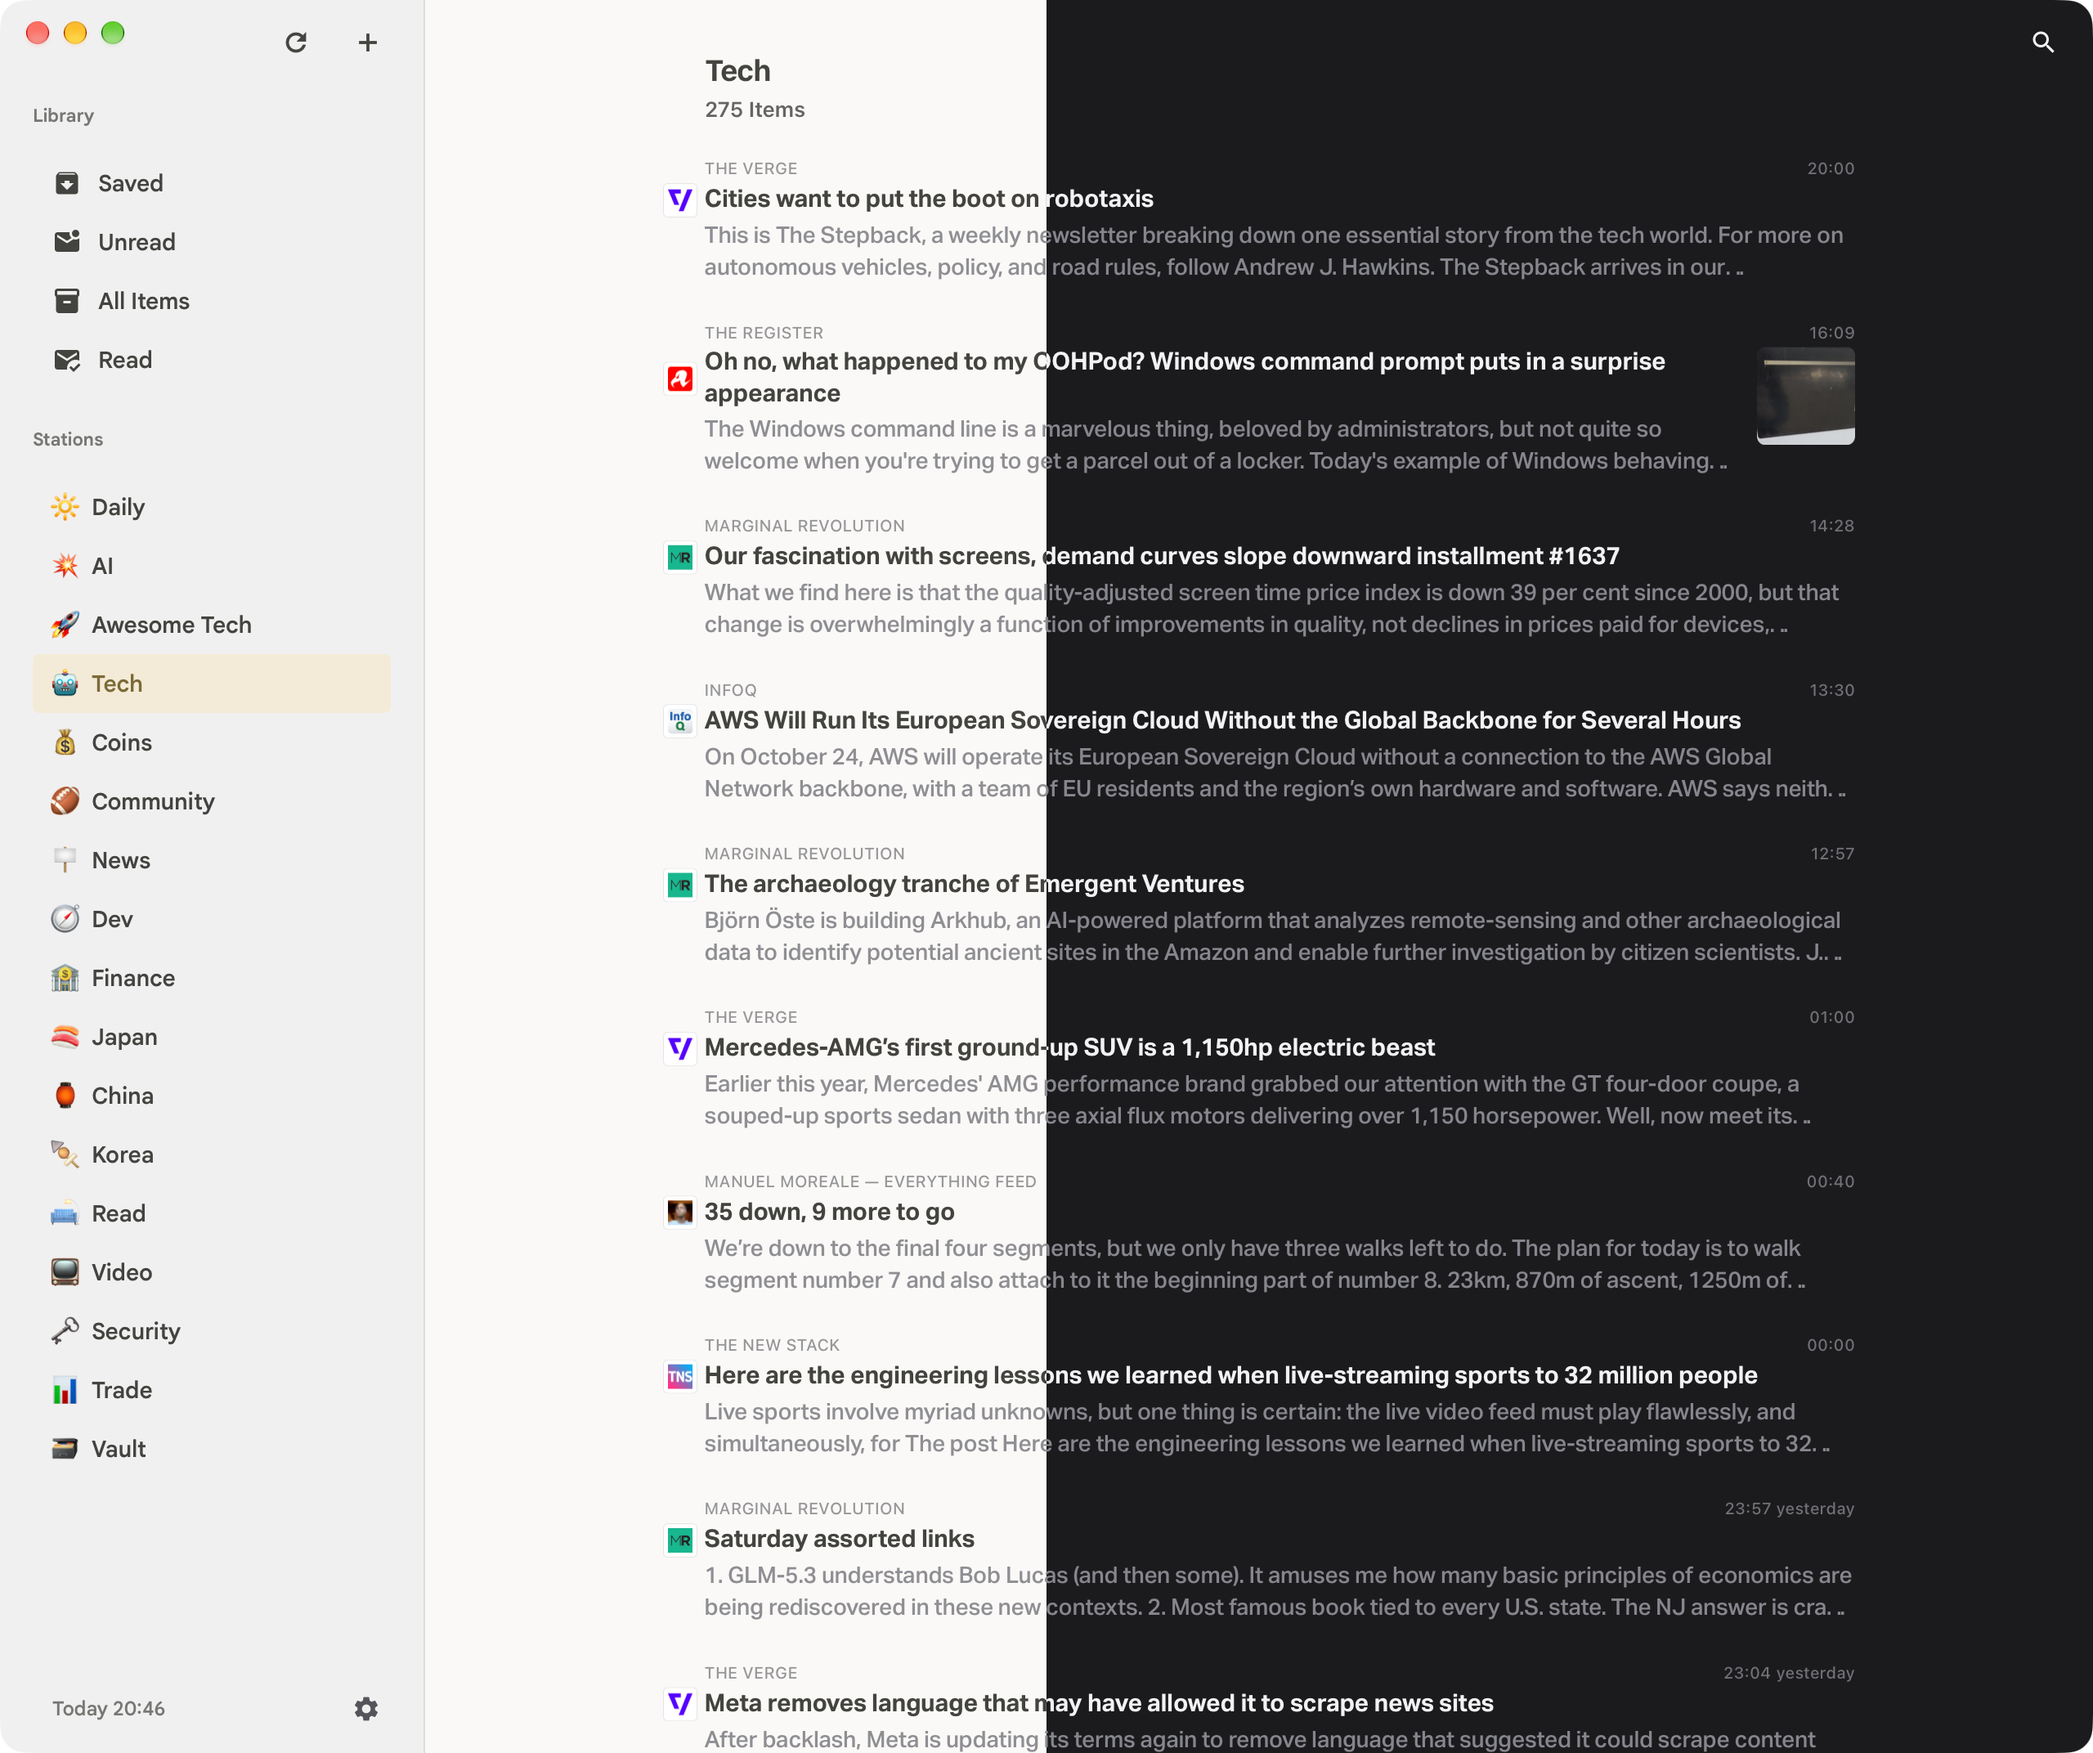
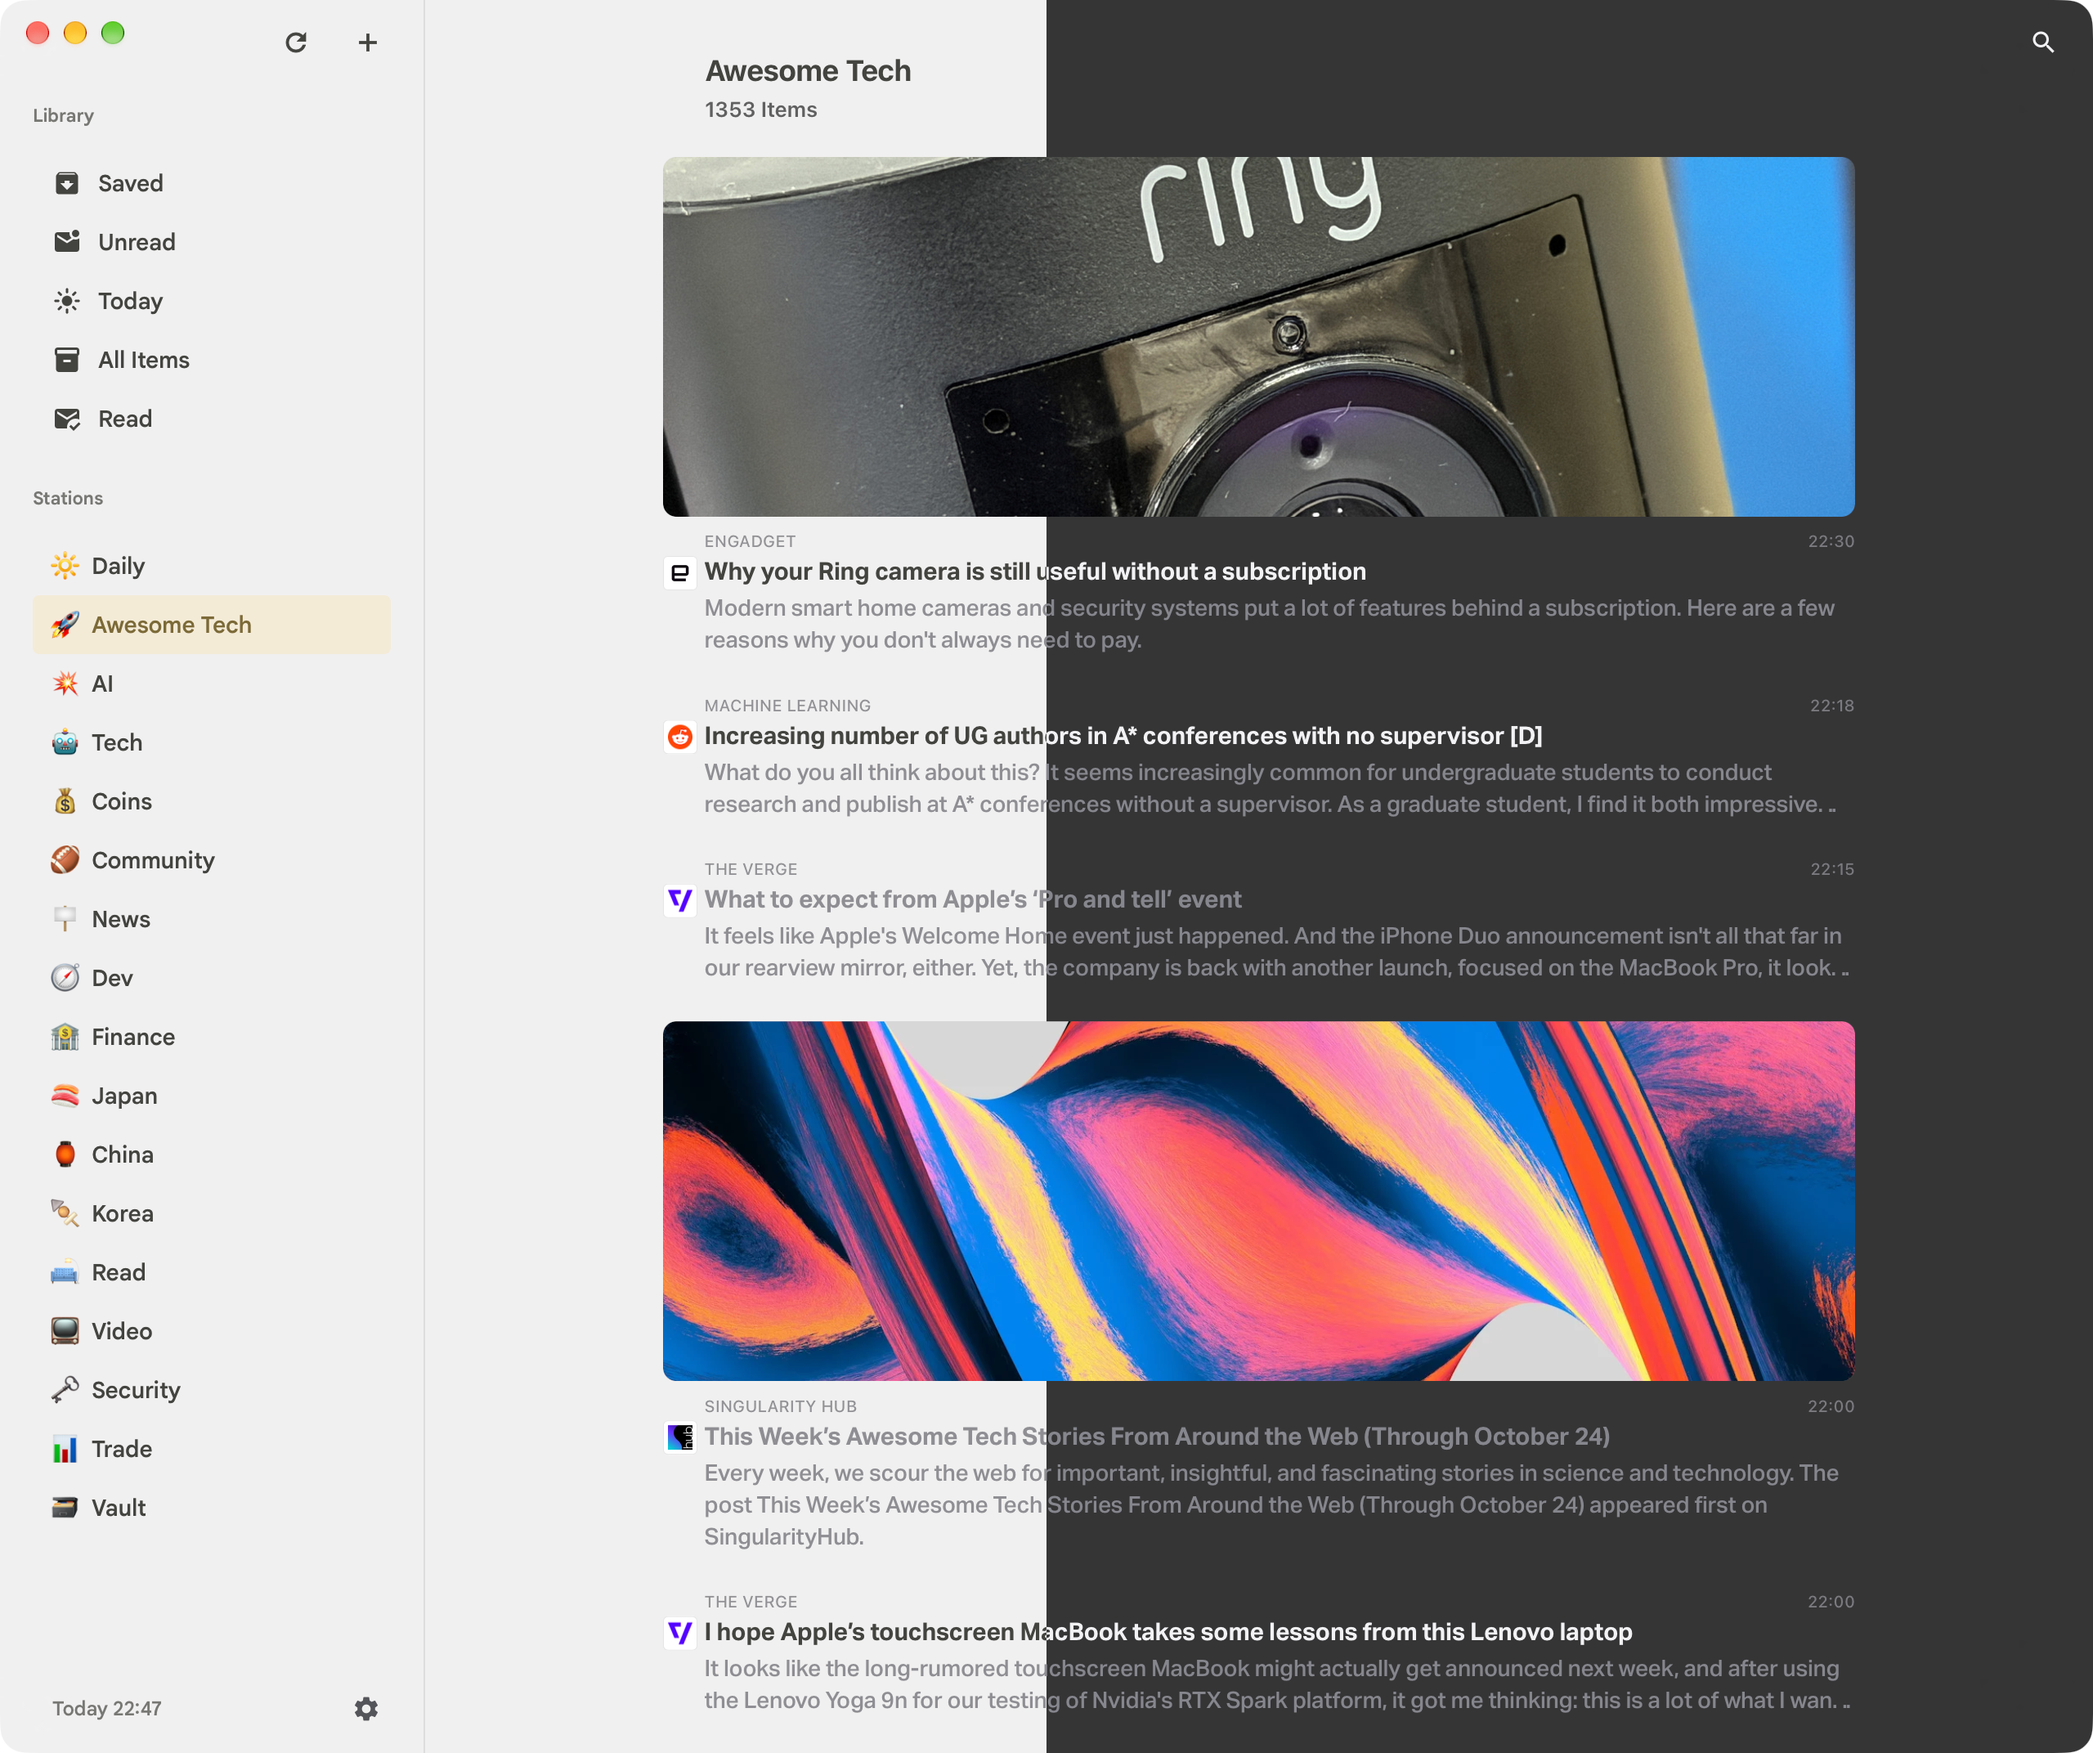
Update README screenshots

diff --git a/README.md b/README.md
@@ -24,7 +24,7 @@ Free for Mac, Windows, and Linux. Opens fast, barely uses your computer, and eve
 
 ## Preview
 
-![KiJi article list with stations sidebar, light and dark](screenshots/article-list-light-dark.png)
+![KiJi article list with large cover images in the Awesome Tech station, light and dark](screenshots/article-list-light-dark.png)
 
 ![KiJi reader mode, light and dark](screenshots/reader-mode-light-dark.png)
 
